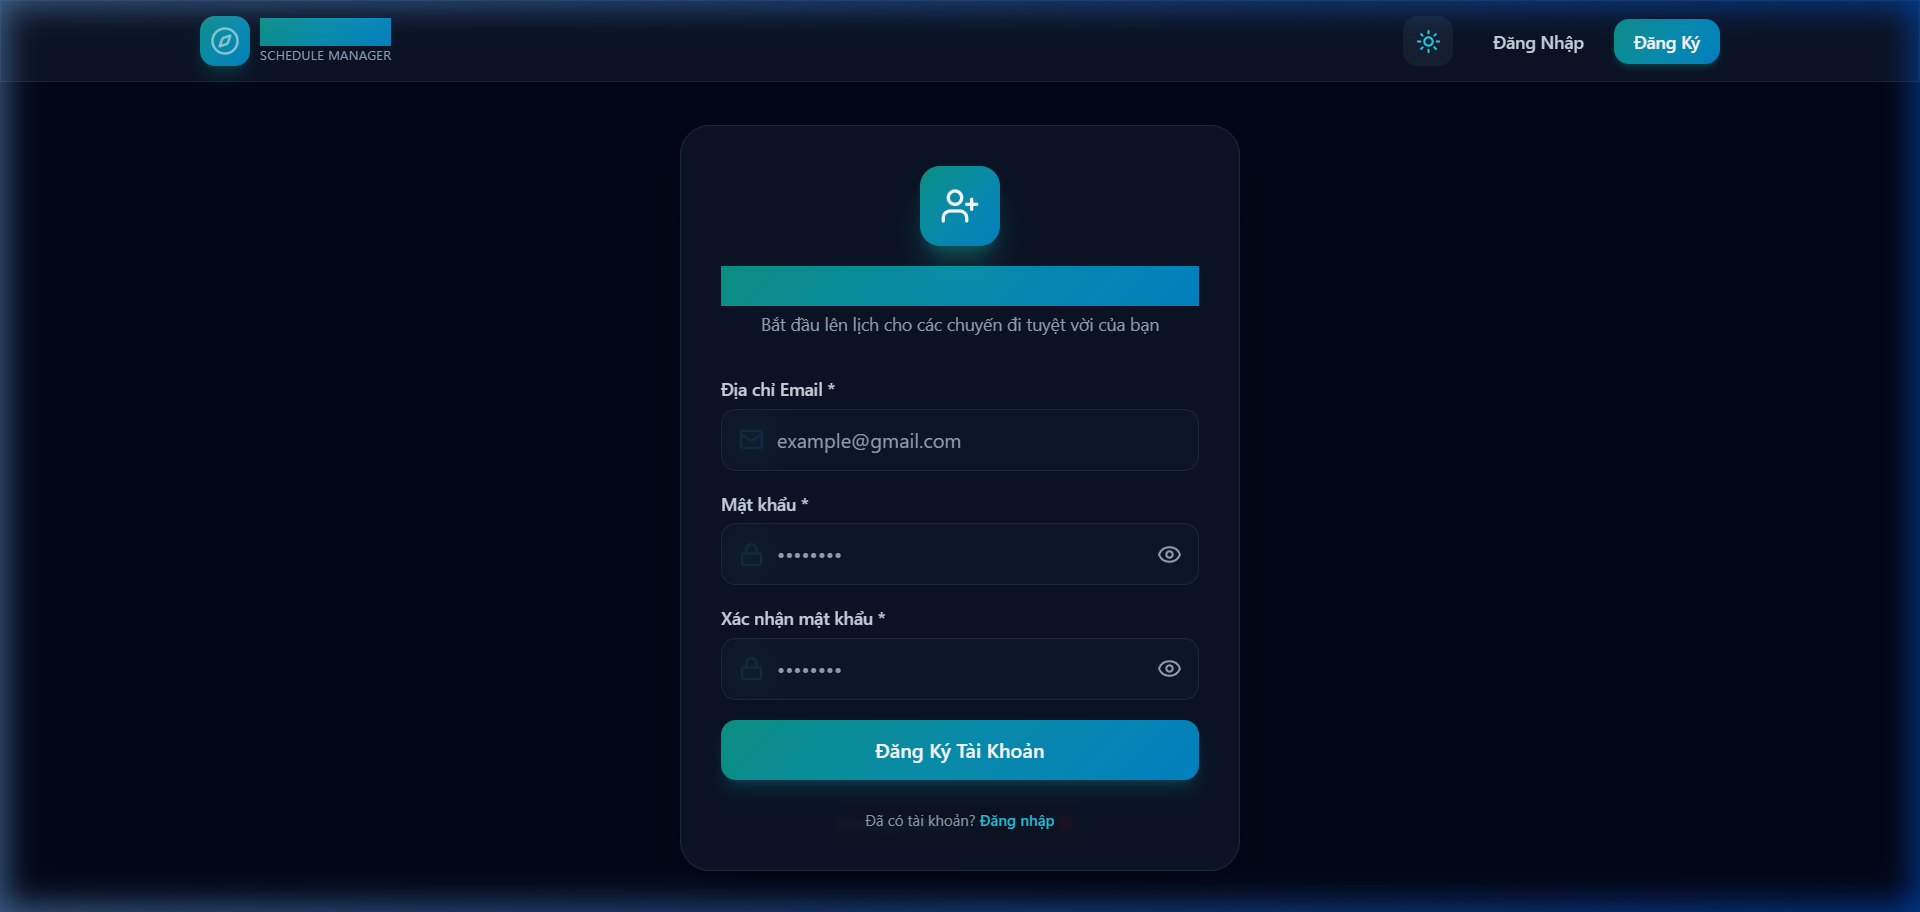
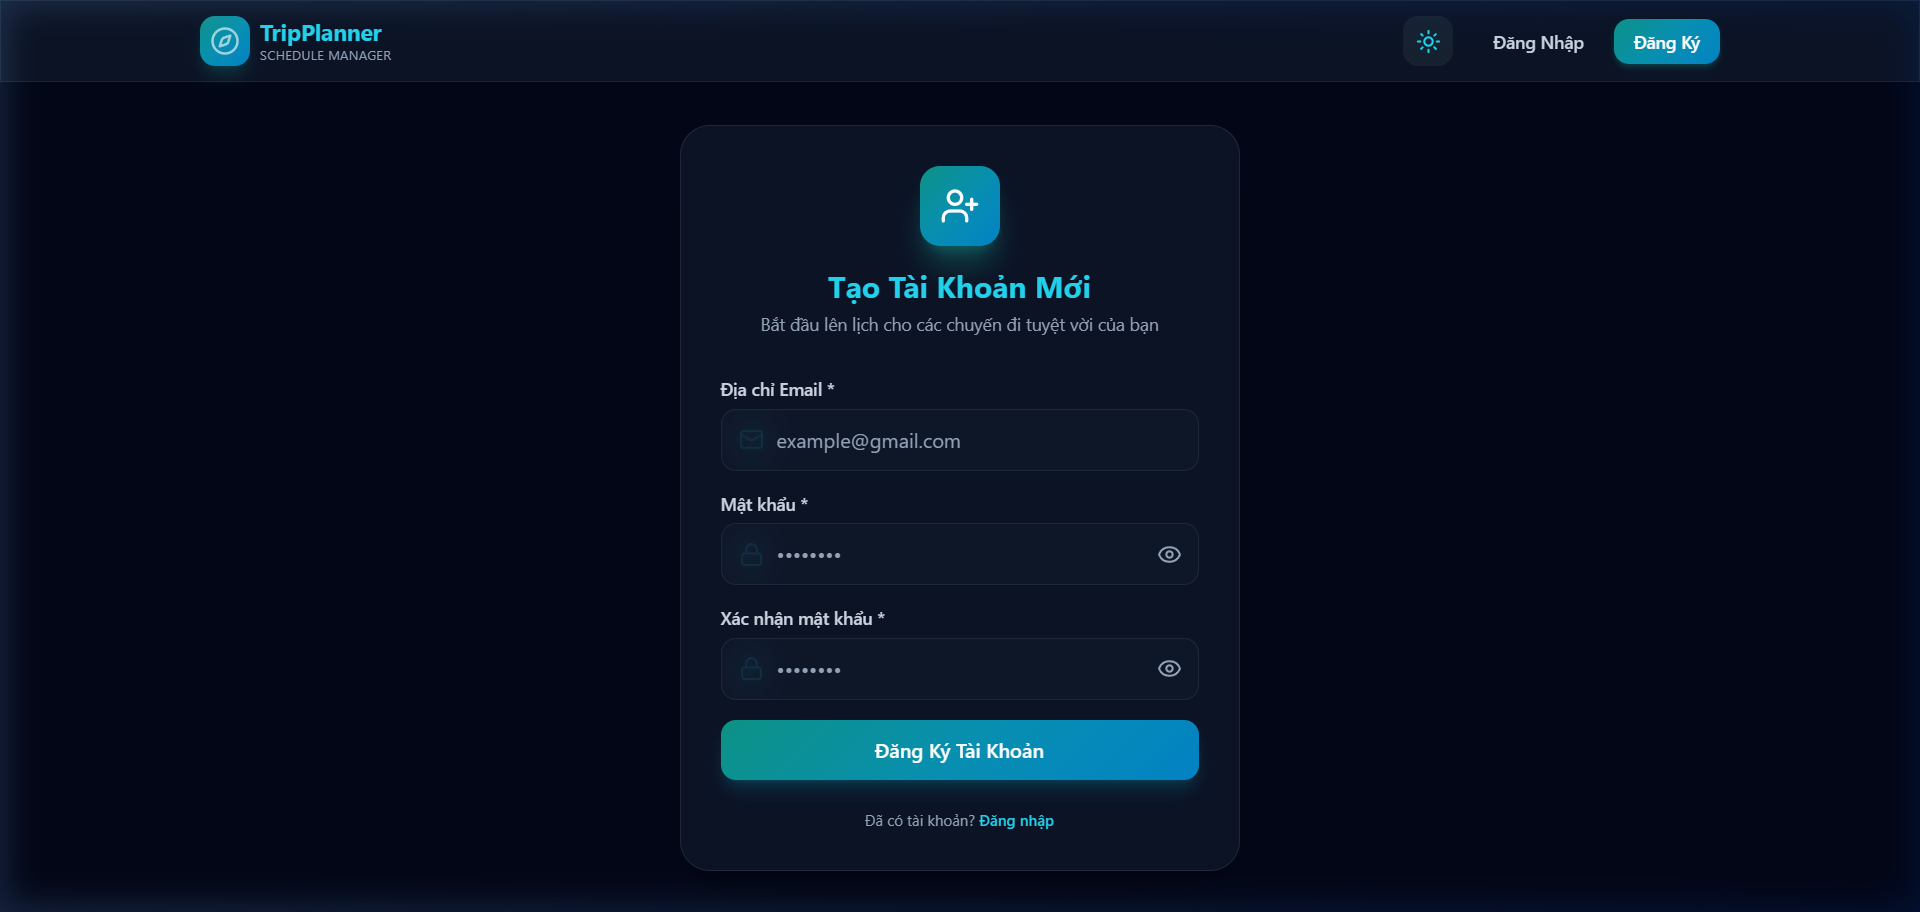
docs & fix: update new screenshots with crisp text headers and updated README

diff --git a/README.md b/README.md
@@ -7,16 +7,16 @@
 ![Vitest](https://img.shields.io/badge/Vitest-2.0-6E9F18?logo=vitest)
 ![Vercel](https://img.shields.io/badge/Vercel-Deployed-000000?logo=vercel)
 
-Ứng dụng web giúp bạn lên lịch trình, quản lý sự kiện và theo dõi các hoạt động trong chuyến du lịch một cách trực quan, khoa học. Được thiết kế với giao diện **Glassmorphism hiện đại** và bảng màu **Tương đồng (Analogous Palette: Teal, Cyan, Sky, Emerald)** mang lại cảm giác dễ chịu, thanh lịch.
+Ứng dụng web giúp bạn lên lịch trình, quản lý sự kiện và theo dõi các hoạt động trong chuyến du lịch một cách trực quan, khoa học. Được thiết kế với giao diện **Glassmorphism hiện đại** và bảng màu **Tương đồng (Analogous Palette: Teal, Cyan, Sky, Emerald)** mang lại cảm giác dễ chịu, thanh lịch và hiển thị chữ rõ nét tương thích 100% trên mọi trình duyệt.
 
 🔗 **Link Demo Trực Tuyến**: [https://travel-schedule-manager-f8i86ymjc-wanphu-ais-projects.vercel.app/](https://travel-schedule-manager-f8i86ymjc-wanphu-ais-projects.vercel.app/)
 
 ---
 
 ## 🎨 Phối Màu Tương Đồng (Analogous Color Scheme)
-*   **Teal (`#0d9488`)**: Màu chính cho các nút bấm primary, Logo, icon chủ đạo.
-*   **Cyan (`#0891b2`)**: Điểm nhấn phụ và hiệu ứng hover/focus lung linh.
-*   **Sky (`#0284c7`)**: Gam màu chuyển tiếp cho viền kính thủy tinh và gradient.
+*   **Teal (`#0d9488`)**: Màu chính sắc nét cho tiêu đề, các nút bấm primary, Logo và icon chủ đạo.
+*   **Cyan (`#0891b2`)**: Điểm nhấn phụ và màu chữ phản quang nổi bật khi tương tác ở Dark mode.
+*   **Sky (`#0284c7`)**: Gam màu chuyển tiếp cho viền kính thủy tinh (Glassmorphism borders) và background gradients.
 *   **Emerald (`#059669`)**: Màu hiển thị cho các sự kiện hoàn thành, badge trạng thái thành công.
 
 ---
@@ -34,6 +34,7 @@
 5. **Bộ Lọc Tiện Lợi (Filtering)**: Lọc nhanh các sự kiện theo thể loại hoạt động.
 6. **Quản Lý Profile**: Trang cập nhật thông tin cá nhân (Họ tên, Số điện thoại, Địa chỉ).
 7. **Theme Toggle**: Chuyển đổi linh hoạt giữa giao diện Tối (Dark mode) và Sáng (Light mode) lưu trên LocalStorage.
+8. **Tối Ưu Hiển Thị Tiêu Đề (Cross-Browser Typography Fix)**: Sửa toàn bộ hiệu ứng phủ màu nền làm mờ tiêu đề thành màu chữ đơn sắc rõ nét trên mọi thiết bị và trình duyệt.
 
 ---
 
@@ -69,12 +70,12 @@ travel-schedule-manager/
 │   ├── assets/              # Tài nguyên hình ảnh, SVG
 │   ├── components/          # UI Components
 │   │   ├── common/          # Button, InputField với password toggle
-│   │   ├── forms/           # EventModalForm (Thêm/sửa sự kiện)
-│   │   └── layout/          # Navbar (Logo, Dark/Light Mode, Profile Badge)
+│   │   ├── forms/           # EventModalForm (Đã tối ưu tiêu đề chữ)
+│   │   └── layout/          # Navbar (Đã tối ưu logo TripPlanner)
 │   ├── contexts/            # AuthContext, ThemeContext
 │   ├── firebase/            # firebaseConfig.js
 │   ├── hooks/               # useAuth, useScheduleEngine (Realtime Clock)
-│   ├── pages/               # Login, Register, Profile, Schedule
+│   ├── pages/               # Login, Register, Profile, Schedule (Đã sửa lỗi tiêu đề)
 │   ├── routes/              # ProtectedRoute, PublicRoute
 │   ├── services/            # authService, userService, eventService (Firestore & LocalStorage)
 │   ├── utils/               # firebaseErrorMessages.js
